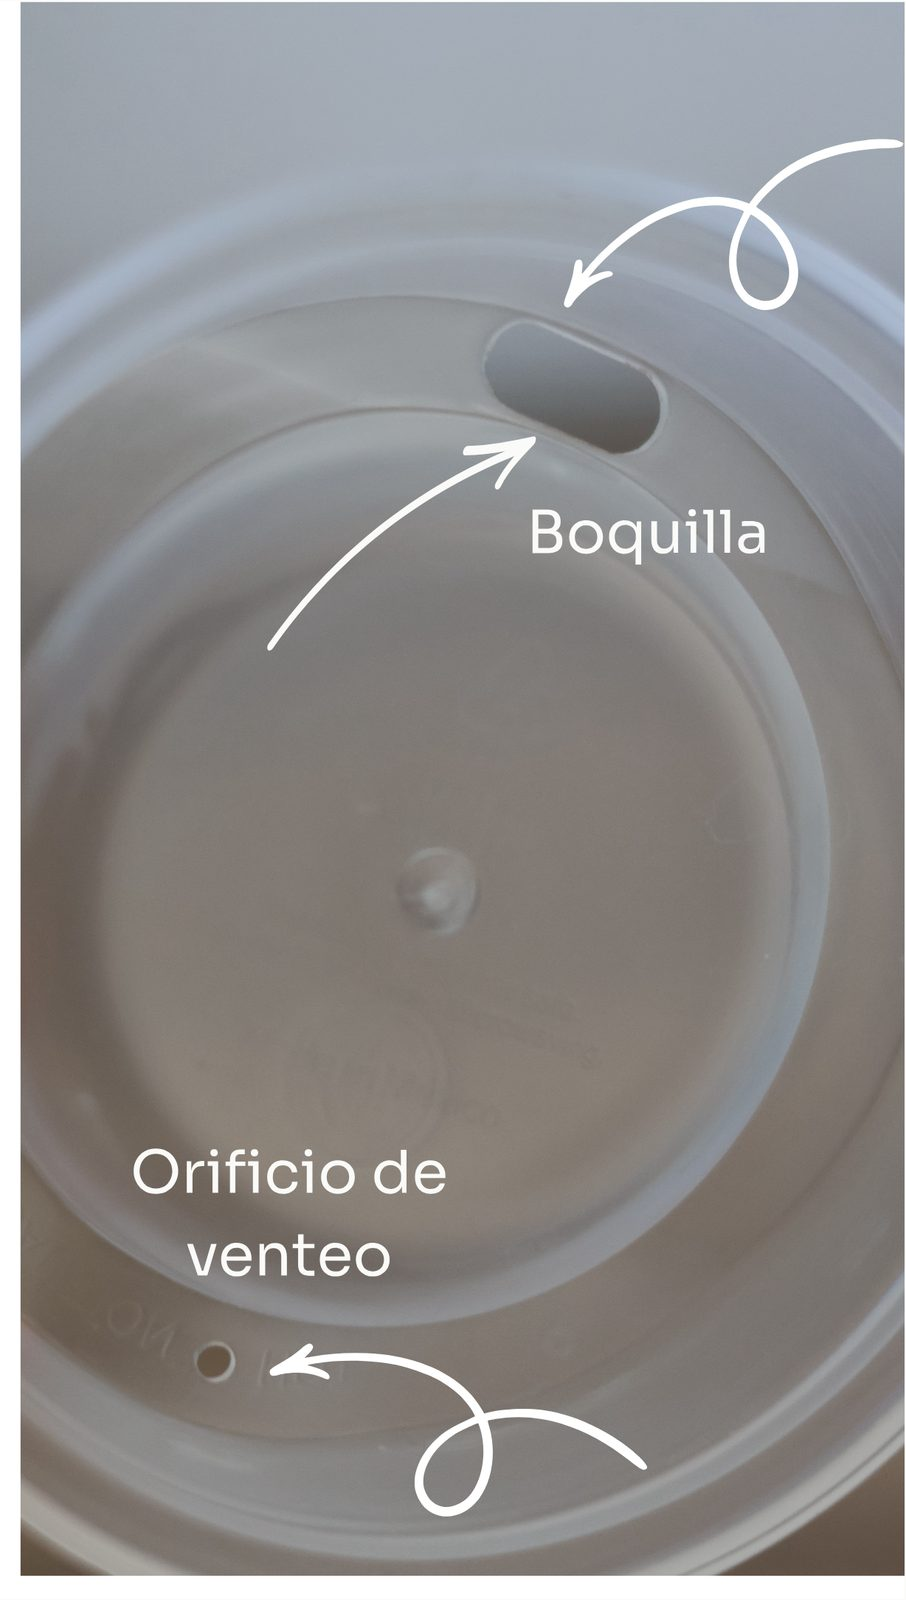
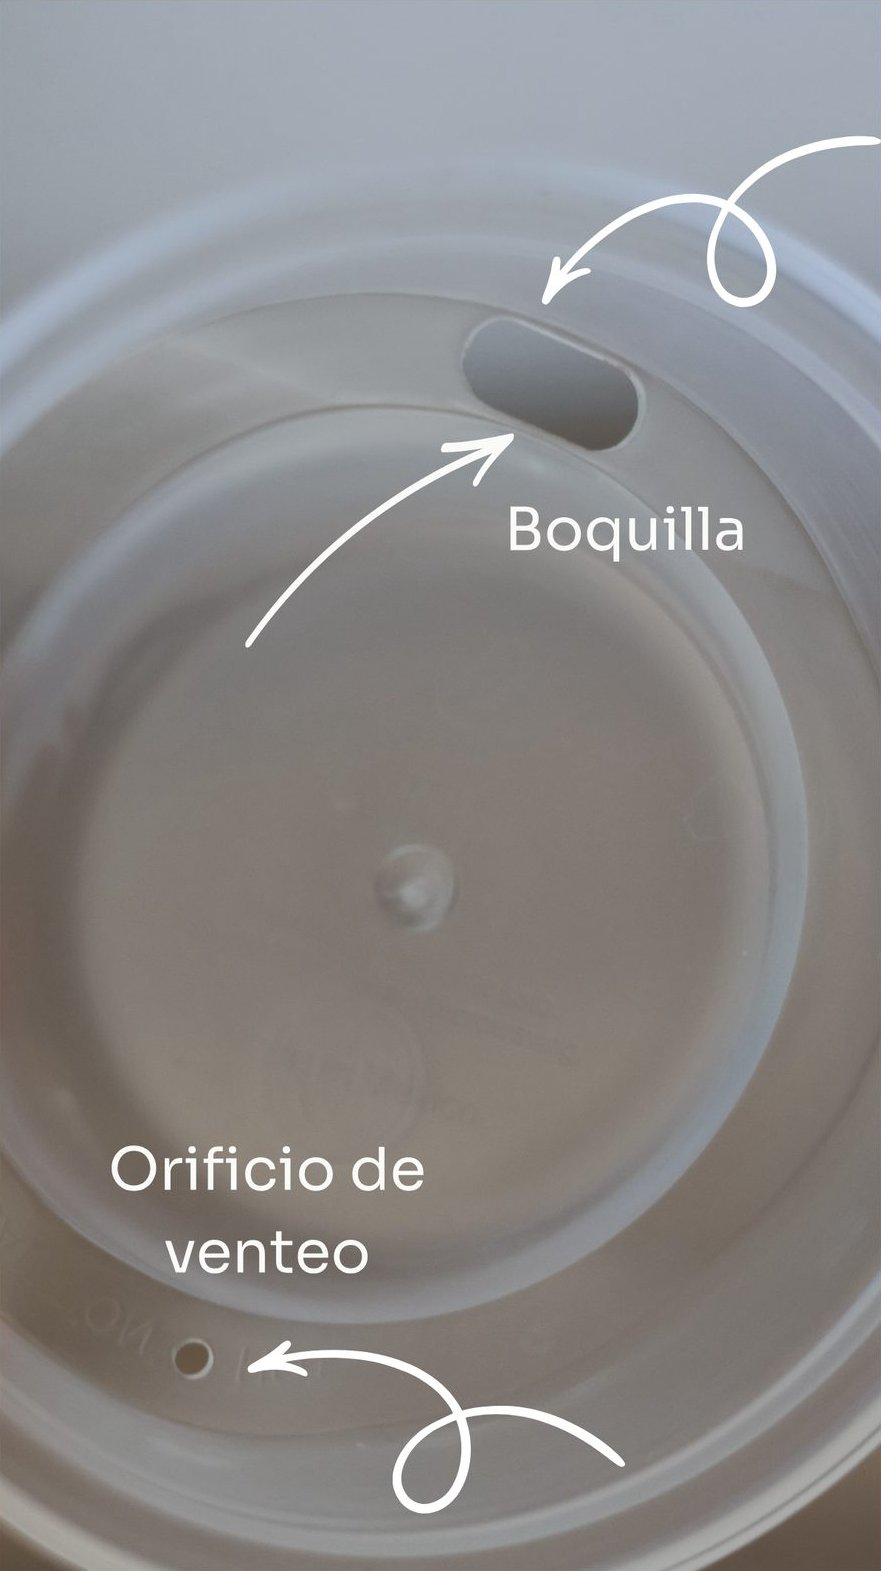
Drop the ops-guide link from /cuidado and crop the spout photo frame.
The SVG canvas left a white strip around the boquilla still; the care page does not need to send cafes back to /info.

diff --git a/src/pages/CareGuide.tsx b/src/pages/CareGuide.tsx
@@ -1,5 +1,4 @@
 import { useEffect } from 'react'
-import { Link } from 'react-router-dom'
 import FadeIn from '../components/ui/FadeIn'
 import SiteHeader from '../components/SiteHeader'
 import Footer from '../components/Footer'
@@ -230,19 +229,6 @@ export default function CareGuide() {
                 ))}
               </ul>
             </div>
-          </FadeIn>
-
-          <FadeIn delay={400}>
-            <p className="text-muted text-sm md:text-base leading-relaxed">
-              La guía de operación de la red está en{' '}
-              <Link
-                to="/info"
-                className="text-black underline hover:text-muted transition-colors duration-300"
-              >
-                holaerre.com/info
-              </Link>
-              .
-            </p>
           </FadeIn>
         </div>
       </main>
